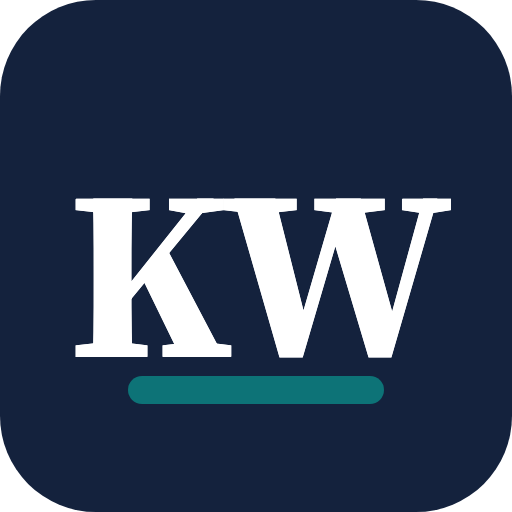
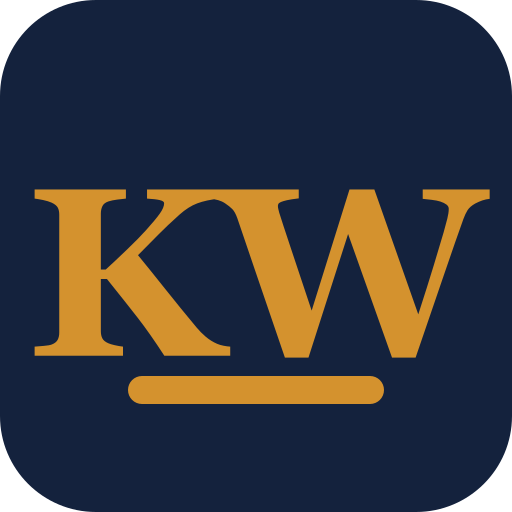
feat(brand): KW Economics identity, navy+gold theme, sister-site constants, wordmark
- src/lib/brand.ts: ORG_NAME/ORG_SHORT/ORG_LEGAL/SITE_URL for kweconomics.com, LCP_SITE_URL replaces ECON_SITE_URL, SAME_AS = [kwvrs, kwlcp], LEGACY_BRAND_PATTERN covers every sister-brand form, economics KNOWS_ABOUT
- scripts/lib/site.mjs: mirror updated and now exports VOC_SITE_URL/LCP_SITE_URL
- src/lib/schema.ts: organization is ProfessionalService only (MedicalBusiness additionalType dropped)
- Footer family column and generate-llms sister-practice lines read LCP_SITE_URL
- src/index.css @theme: navy + gold; teal tokens point at the gold
- index.html, manifest.json, robots.txt: title, description, og, theme color, sitemap URLs
- logo.svg/logo.png wordmark 'KW Economics'; favicon.svg navy tile with gold KW; favicon.ico, favicon-32x32, apple-touch-icon, kw-icon-192/512 regenerated

Changed region(s): [[0.0625, 0.3438, 0.9688, 0.8125]]

diff --git a/src/lib/brand.ts b/src/lib/brand.ts
@@ -1,11 +1,11 @@
-// Single source of truth for KW Life Care Planning (kwlcp.com) brand identity.
+// Single source of truth for KW Economics (kweconomics.com) brand identity.
 // Everything that renders the org name, domain, contact details, or office NAP
 // should import from here so a rebrand is a one-file change.
-export const ORG_NAME = "KW Life Care Planning";
-export const ORG_SHORT = "KW LCP";
-export const ORG_LEGAL = "Kincaid Wolstein Vocational and Rehabilitation Services";
-export const SITE_URL = "https://kwlcp.com";
-export const ORG_EMAIL = "info@kwvrs.com"; // facts-to-confirm: kwlcp.com mailbox
+export const ORG_NAME = "KW Economics";
+export const ORG_SHORT = "KW Economics";
+export const ORG_LEGAL = "Kincaid Wolstein Economics";
+export const SITE_URL = "https://kweconomics.com";
+export const ORG_EMAIL = "info@kwvrs.com"; // facts-to-confirm: kweconomics.com mailbox
 export const ORG_PHONE = "+1-201-343-0700";
 export const ORG_PHONE_VA = "+1-804-282-4199";
 export const ORG_CITY = "Hackensack";
@@ -15,12 +15,13 @@ export const ORG_COUNTRY = "US";
 // rich-results guidelines prefer PNG/JPG over SVG for the logo/image fields.
 export const ORG_LOGO = `${SITE_URL}/images/logo.png`;
 export const DEFAULT_OG_IMAGE = `${SITE_URL}/images/hero-office-meeting.jpg`;
-// Sister practices in the KW family. These are the ONLY places the vocational
-// domain is spelled: everything else (Footer, Tools, data hrefs, sameAs) reads
-// these constants. Scripts that need them load this module through vite.
+// Sister practices in the KW family. These are the ONLY places their domains
+// are spelled: everything else (Footer, CrossSell, data hrefs, sameAs) reads
+// these constants. Scripts that need them load this module through vite or
+// read the Node-side mirror in scripts/lib/site.mjs.
 export const VOC_SITE_URL = "https://kwvrs.com";
-export const ECON_SITE_URL = "https://kweconomics.com";
-export const SAME_AS = [VOC_SITE_URL, ECON_SITE_URL] as const;
+export const LCP_SITE_URL = "https://kwlcp.com";
+export const SAME_AS = [VOC_SITE_URL, LCP_SITE_URL] as const;
 
 /** Human-readable phone, e.g. "+1-201-343-0700" -> "(201) 343-0700". */
 export function formatPhone(e164: string): string {
@@ -33,18 +34,23 @@ export const ORG_PHONE_DISPLAY = formatPhone(ORG_PHONE);
 export const ORG_PHONE_VA_DISPLAY = formatPhone(ORG_PHONE_VA);
 
 /**
- * The retired vocational brand. Guard tests import this so no test file needs
- * to spell the old name itself (src/brand-strings.test.mjs walks every file).
+ * Sister-brand forms that must not leak into this site's copy. Guard tests
+ * import this so no test file needs to spell the sister names itself
+ * (src/brand-strings.test.mjs walks every file). "Life care plan" as the
+ * subject of a cost projection is fine; the capitalized brand form is not.
  */
-export const LEGACY_BRAND_PATTERN = /KWVRS|Kincaid Wolstein/;
+export const LEGACY_BRAND_PATTERN = /KWVRS|kwvrs\.com|KW LCP|kwlcp|Kincaid Wolstein Vocational|Life Care Planning/;
 export const KNOWS_ABOUT = [
-  "Life Care Planning",
-  "Pediatric Life Care Planning",
-  "Catastrophic Injury Cost Projection",
-  "Medical Cost Projection",
-  "Future Medical Care",
-  "Medicare Set-Aside Allocation",
-  "Life Care Plan Rebuttal",
+  "Forensic Economics",
+  "Economic Damages",
+  "Lost Earnings Analysis",
+  "Earning Capacity",
+  "Wrongful Death Economic Loss",
+  "Household Services Valuation",
+  "Present Value Analysis",
+  "Business Valuation",
+  "Lost Profits",
+  "Forensic Accounting",
   "Expert Witness Testimony",
 ] as const;
 

diff --git a/src/lib/brand.test.ts b/src/lib/brand.test.ts
@@ -1,24 +1,34 @@
 import { describe, expect, it } from "vitest";
-import { ORG_NAME, ORG_SHORT, SITE_URL, OFFICES, SAME_AS, KNOWS_ABOUT, VOC_SITE_URL, ECON_SITE_URL } from "./brand";
+import { ORG_NAME, ORG_SHORT, ORG_LEGAL, SITE_URL, OFFICES, SAME_AS, KNOWS_ABOUT, LEGACY_BRAND_PATTERN, VOC_SITE_URL, LCP_SITE_URL } from "./brand";
 import { ORG_URL, ORG_LOGO, organizationSchema } from "./schema";
 
 describe("brand constants", () => {
-  it("names the LCP brand and domain", () => {
-    expect(ORG_NAME).toBe("KW Life Care Planning");
-    expect(ORG_SHORT).toBe("KW LCP");
-    expect(SITE_URL).toBe("https://kwlcp.com");
+  it("names the economics brand and domain", () => {
+    expect(ORG_NAME).toBe("KW Economics");
+    expect(ORG_SHORT).toBe("KW Economics");
+    expect(ORG_LEGAL).toBe("Kincaid Wolstein Economics");
+    expect(SITE_URL).toBe("https://kweconomics.com");
     expect(ORG_URL).toBe(SITE_URL);
-    expect(ORG_LOGO).toBe("https://kwlcp.com/images/logo.png");
+    expect(ORG_LOGO).toBe("https://kweconomics.com/images/logo.png");
   });
-  it("keeps both offices and the family sameAs links", () => {
+  it("keeps both offices and links both sister practices", () => {
     expect(OFFICES.map((o) => o.addressRegion)).toEqual(["NJ", "VA"]);
-    expect(SAME_AS).toEqual([VOC_SITE_URL, ECON_SITE_URL]);
-    expect(SAME_AS).not.toContain(SITE_URL);
+    expect(VOC_SITE_URL).toBe("https://kwvrs.com");
+    expect(LCP_SITE_URL).toBe("https://kwlcp.com");
+    expect(SAME_AS).toEqual([VOC_SITE_URL, LCP_SITE_URL]);
   });
-  it("feeds the organization schema", () => {
+  it("legacy pattern catches every sister brand form", () => {
+    for (const s of ["KWVRS", "KW LCP", "kwlcp.com", "Kincaid Wolstein Vocational", "KW Life Care Planning"]) expect(s).toMatch(LEGACY_BRAND_PATTERN);
+    expect("KW Economics").not.toMatch(LEGACY_BRAND_PATTERN);
+    expect("Kincaid Wolstein Economics").not.toMatch(LEGACY_BRAND_PATTERN);
+  });
+  it("feeds the organization schema without a medical type", () => {
     const org = organizationSchema() as Record<string, unknown>;
     expect(org.name).toBe(ORG_NAME);
     expect(org.knowsAbout).toEqual(KNOWS_ABOUT);
     expect(org.sameAs).toEqual(SAME_AS);
+    expect(JSON.stringify(org)).not.toContain("MedicalBusiness");
+    expect(KNOWS_ABOUT).toContain("Forensic Economics");
+    expect(KNOWS_ABOUT).toContain("Business Valuation");
   });
 });

diff --git a/index.html b/index.html
@@ -5,7 +5,7 @@
     <!-- Enable JS-gated motion before first paint. No-JS/crawlers keep fully visible content. -->
     <script>document.documentElement.classList.add('js')</script>
     <meta name="viewport" content="width=device-width, initial-scale=1.0" />
-    <meta name="theme-color" content="#0d7377" />
+    <meta name="theme-color" content="#14223d" />
     <link rel="dns-prefetch" href="https://fonts.googleapis.com" />
     <link rel="dns-prefetch" href="https://fonts.gstatic.com" />
     <link rel="preconnect" href="https://fonts.googleapis.com" />
@@ -28,9 +28,9 @@
          Placeholders intentionally not shipped. -->
 
     <!-- Default OpenGraph (prerender overrides per-route) -->
-    <meta property="og:site_name" content="KW Life Care Planning" />
+    <meta property="og:site_name" content="KW Economics" />
     <meta property="og:type" content="website" />
-    <meta property="og:image" content="https://kwlcp.com/images/hero-office-meeting.jpg" />
+    <meta property="og:image" content="https://kweconomics.com/images/hero-office-meeting.jpg" />
     <meta name="twitter:card" content="summary_large_image" />
 
     <!-- Robots directives -->
@@ -40,10 +40,10 @@
     <link rel="alternate" type="text/plain" title="LLMs.txt" href="/llms.txt" />
     <link rel="alternate" type="text/plain" title="LLMs Full" href="/llms-full.txt" />
 
-    <title>KW Life Care Planning | Certified Life Care Planners Nationwide</title>
+    <title>KW Economics | Forensic Economics and Economic Damages Experts</title>
     <meta
       name="description"
-      content="KW Life Care Planning - independent, physician-led life care plans and medical cost projections for plaintiff and defense attorneys in all 50 states."
+      content="Forensic economists, forensic accountants, and business valuation experts for plaintiff and defense counsel nationwide."
     />
   </head>
   <body>

diff --git a/src/index.css b/src/index.css
@@ -1,19 +1,21 @@
 @import "tailwindcss";
 
 @theme {
-  /* KW Life Care Planning palette: navy primary + teal accent (primary
-     CTAs, links, icons); amber retained for StatBar and highlight underlines.
-     teal-light (#14a3a8) fails AA with white text - never a button background. */
+  /* KW Economics palette: the kwvrs.com look - navy primary (ink, hero, nav)
+     with gold as the single accent (primary CTAs, links, icons, underlines).
+     The teal and forest tokens survive because components reference them;
+     they all point at the gold so every accent renders gold. amber-light
+     (#d4922e) fails AA with white text - never a button background. */
   --color-navy: #14223d;
   --color-navy-light: #2a3a5c;
   --color-navy-dark: #0c1729;
-  --color-teal: #0d7377;
-  --color-teal-light: #14a3a8;
-  --color-teal-dark: #095457;
   --color-amber: #b8731f;
   --color-amber-light: #d4922e;
   --color-amber-dark: #8a5612;
-  --color-forest: #0d7377;
+  --color-teal: #b8731f;
+  --color-teal-light: #d4922e;
+  --color-teal-dark: #8a5612;
+  --color-forest: #14223d;
   --color-neutral-50: #f9fafb;
   --color-neutral-100: #f3f4f6;
   --color-neutral-200: #e5e7eb;

diff --git a/src/components/layout/Footer.tsx b/src/components/layout/Footer.tsx
@@ -10,7 +10,7 @@ import {
   ORG_CITY,
   ORG_STATE,
   VOC_SITE_URL,
-  ECON_SITE_URL,
+  LCP_SITE_URL,
   telHref,
 } from "@/lib/brand";
 
@@ -72,8 +72,8 @@ const companyLinks = [
 // the host of the link so the domains are never spelled out here.
 const hostOf = (url: string) => new URL(url).host;
 const familyLinks = [
-  { name: hostOf(VOC_SITE_URL), blurb: "Vocational & Economic Experts", href: VOC_SITE_URL },
-  { name: hostOf(ECON_SITE_URL), blurb: "Forensic Economics", href: ECON_SITE_URL },
+  { name: hostOf(VOC_SITE_URL), blurb: "Vocational Experts", href: VOC_SITE_URL },
+  { name: hostOf(LCP_SITE_URL), blurb: "Life Care Plans", href: LCP_SITE_URL },
 ];
 
 export default function Footer() {

diff --git a/src/lib/schema.ts b/src/lib/schema.ts
@@ -30,7 +30,6 @@ export function organizationSchema(): JsonLd {
   return {
     "@type": "ProfessionalService",
     "@id": ORG_ID,
-    additionalType: "https://schema.org/MedicalBusiness",
     name: ORG_NAME,
     url: ORG_URL,
     telephone: ORG_PHONE,
